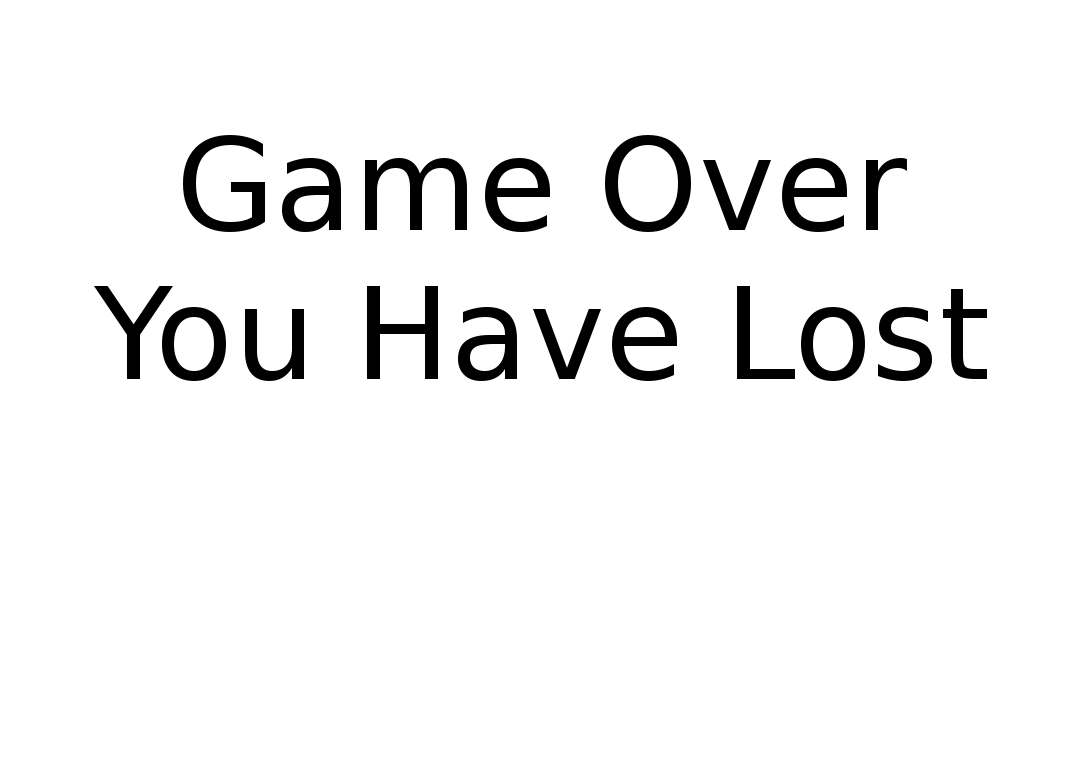
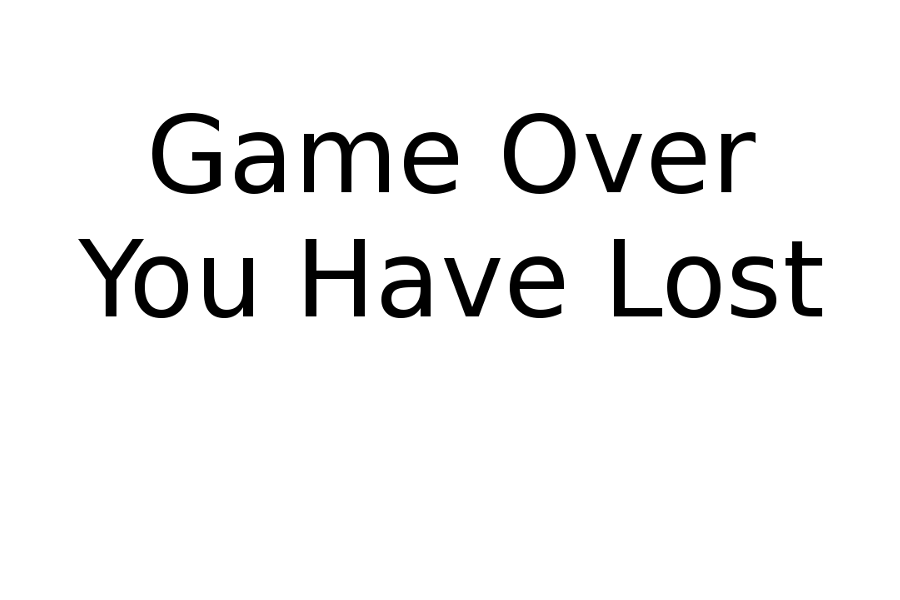
EndScreen methods: playerWin() and playerLoss()

diff --git a/DoD/DoDWorld.java b/DoD/DoDWorld.java
@@ -68,4 +68,12 @@ public class DoDWorld extends World
         //System.out.println(conflictedTerritoryList.size() + " conflicted territories");
 
     }
+    
+    public void playerWin() {
+        Greenfoot.setWorld(new EndScreen(true));
+    }
+    
+    public void playerLoss() {
+        Greenfoot.setWorld(new EndScreen(false));
+    }
 }

diff --git a/DoD/EndScreen.java b/DoD/EndScreen.java
@@ -16,7 +16,7 @@ public class EndScreen extends World
     public EndScreen(boolean win)
     {    
         // Create a new world with 600x400 cells with a cell size of 1x1 pixels.
-        super(1080, 768, 1);
+        super(900, 600, 1);
         if (win) {
             setBackground("images/winScreen.png");
         }
